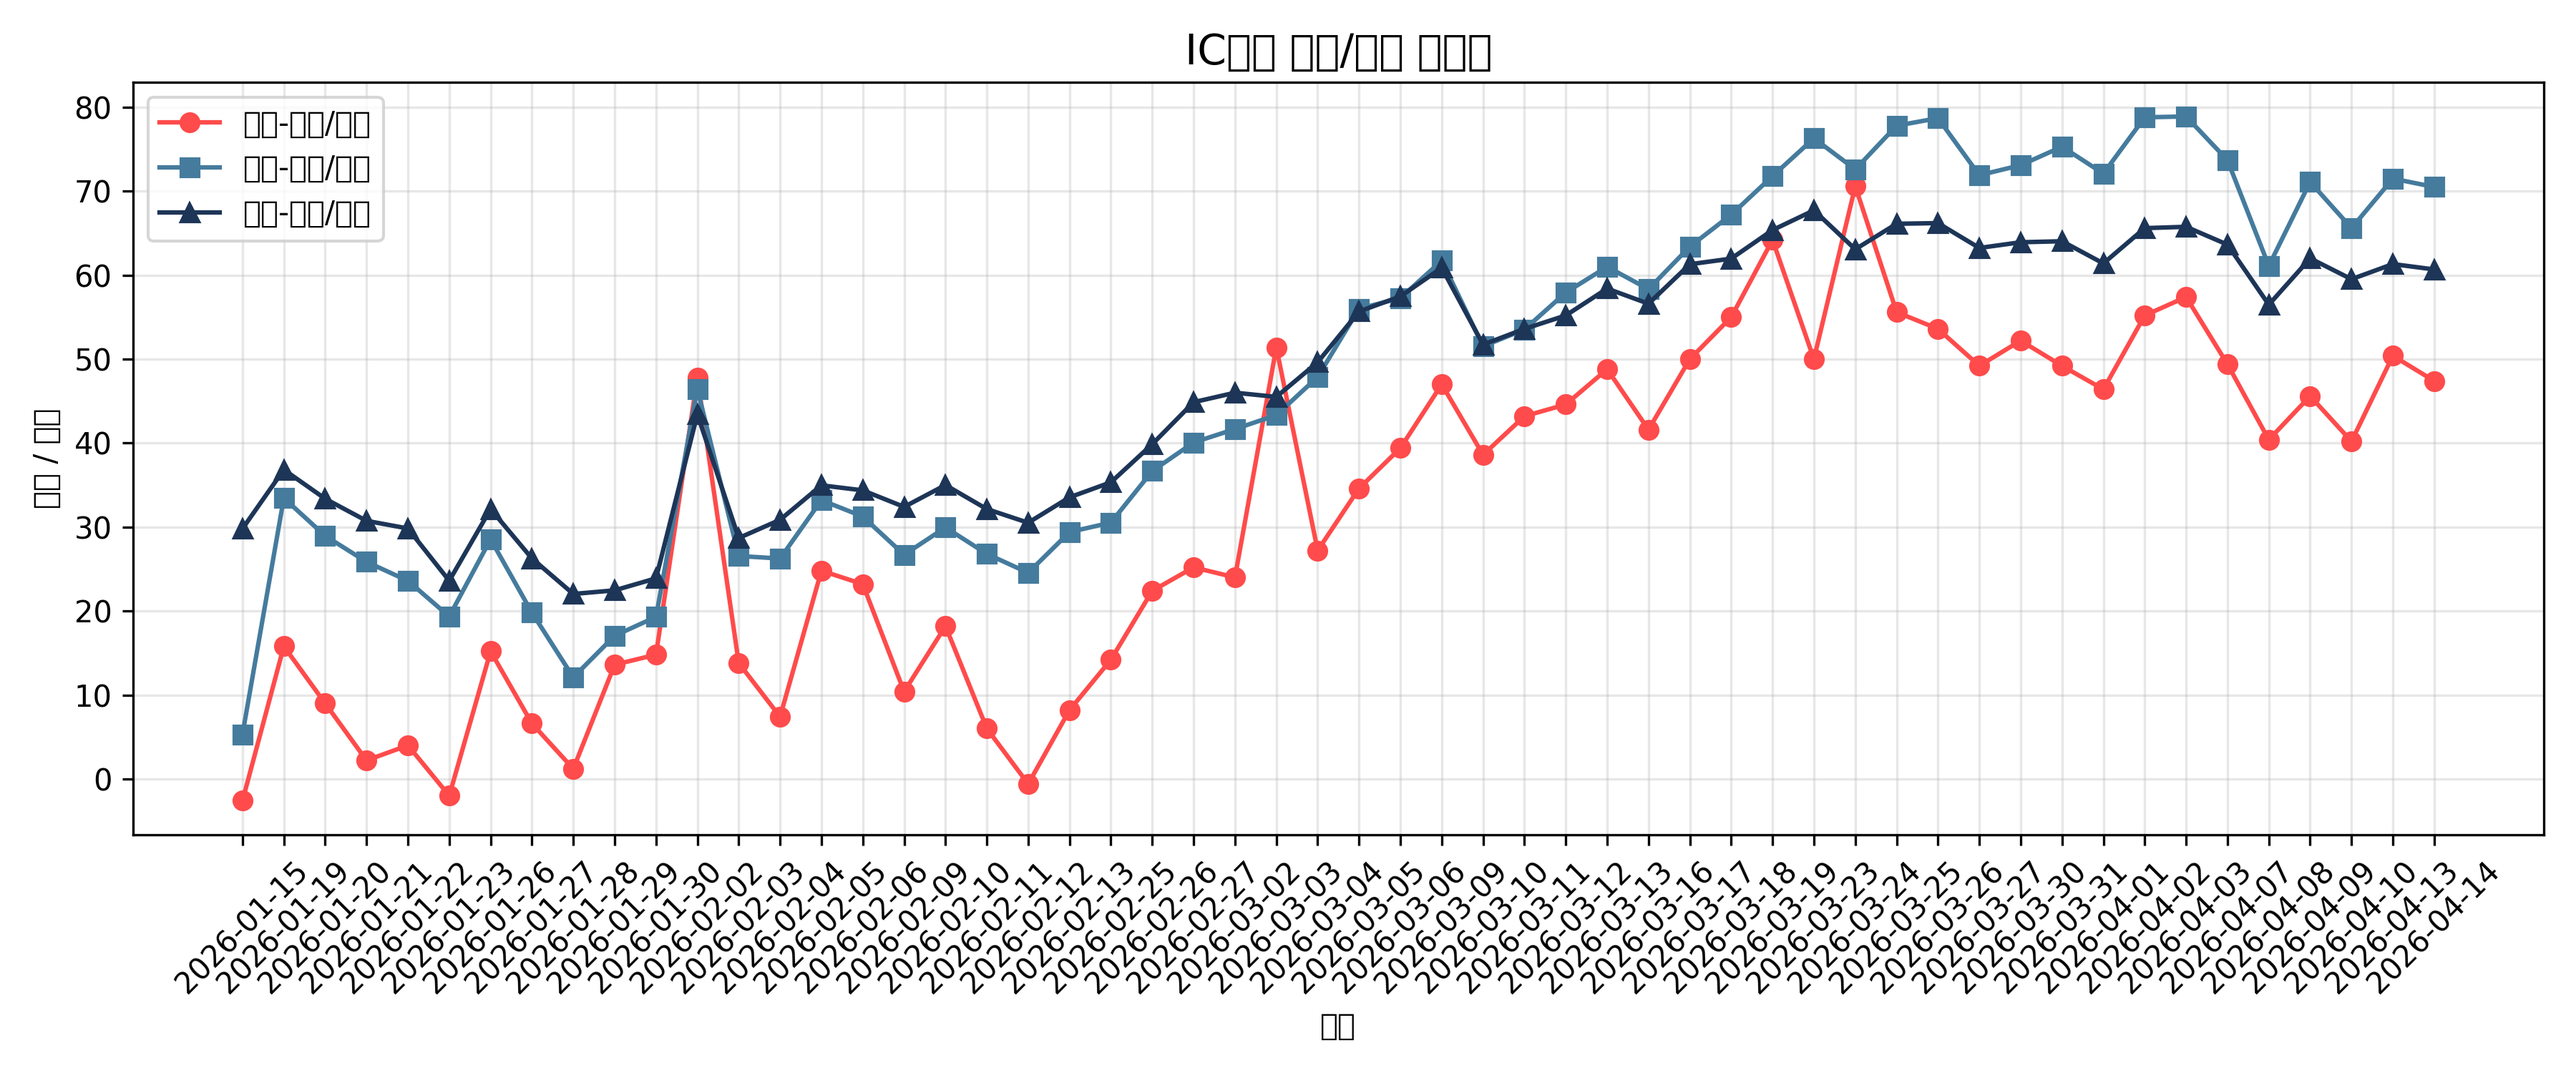
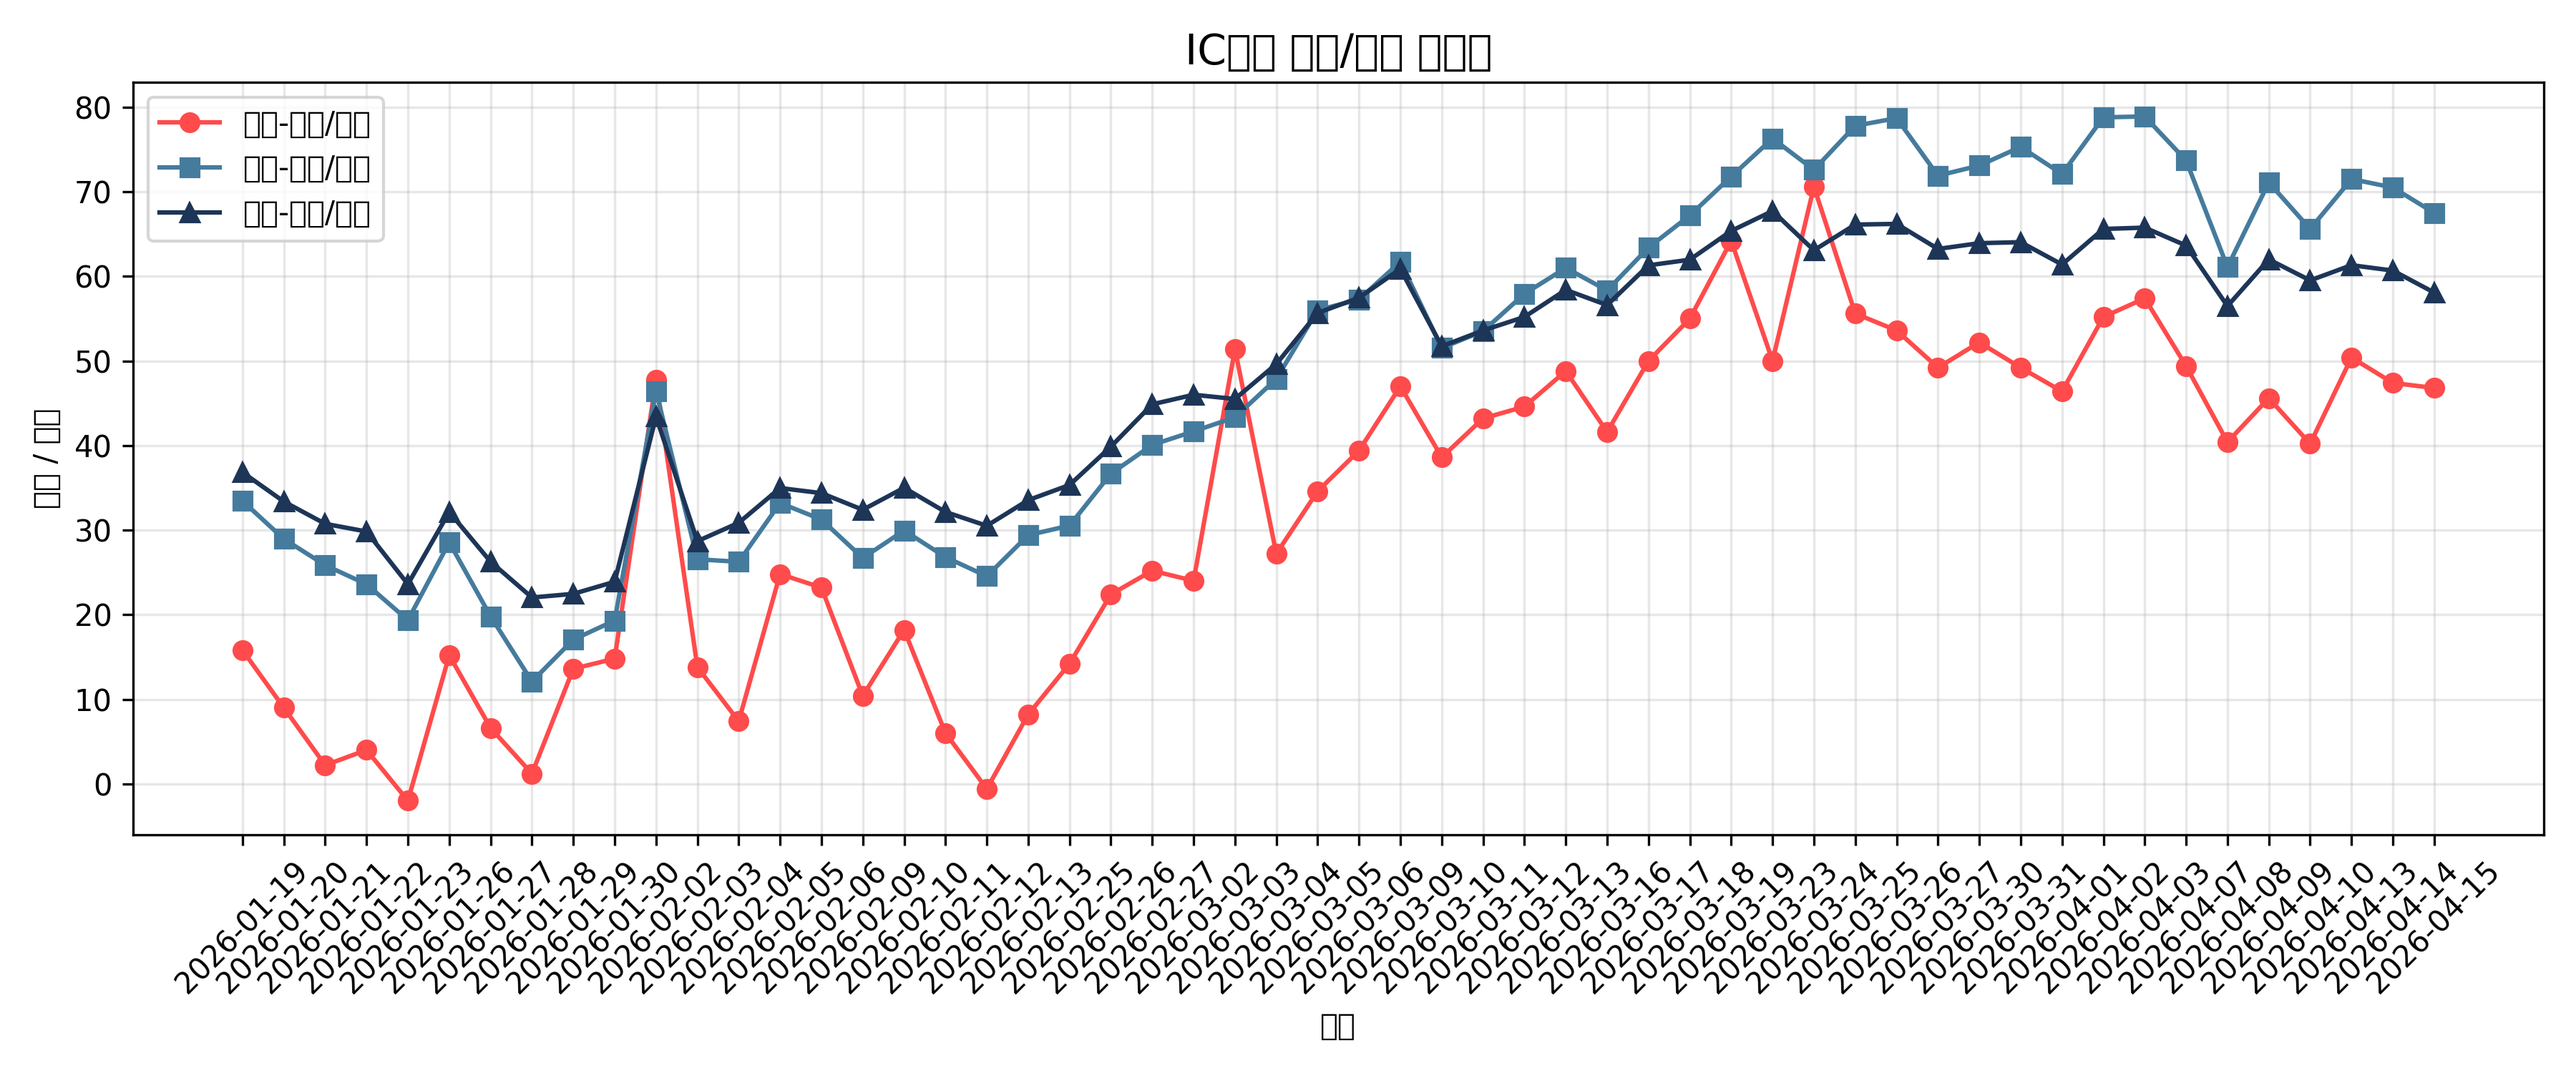
deploy: 4d1bb30b7b0bf8623cc214497fc979b4192c654b

diff --git a/index.html b/index.html
@@ -84,19 +84,19 @@
 <body>
     <div class="container">
         <h1>IC期货基差监控</h1>
-        <div class="last-updated">最后更新：2026-04-14 17:57:07</div>
+        <div class="last-updated">最后更新：2026-04-15 17:58:27</div>
         
         <div class="stats">
             <div class="stat-card">
-                <div class="stat-value">47.4</div>
+                <div class="stat-value">46.8</div>
                 <div class="stat-label">当月-下月/月差</div>
             </div>
             <div class="stat-card">
-                <div class="stat-value">70.5</div>
+                <div class="stat-value">67.5</div>
                 <div class="stat-label">当月-当季/月差</div>
             </div>
             <div class="stat-card">
-                <div class="stat-value">60.68</div>
+                <div class="stat-value">58.08</div>
                 <div class="stat-label">当月-下季/月差</div>
             </div>
         </div>
@@ -114,14 +114,6 @@
                 <th>当月-下月/月差</th>
                 <th>当月-当季/月差</th>
                 <th>当月-下季/月差</th>
-            </tr>
-
-            <tr>
-                <td>2026-04-03</td>
-                <td>IC2604</td>
-                <td>57.4</td>
-                <td>78.9</td>
-                <td>65.76</td>
             </tr>
 
             <tr>
@@ -170,6 +162,14 @@
                 <td>47.4</td>
                 <td>70.5</td>
                 <td>60.68</td>
+            </tr>
+
+            <tr>
+                <td>2026-04-15</td>
+                <td>IC2604</td>
+                <td>46.8</td>
+                <td>67.5</td>
+                <td>58.08</td>
             </tr>
 
         </table>
